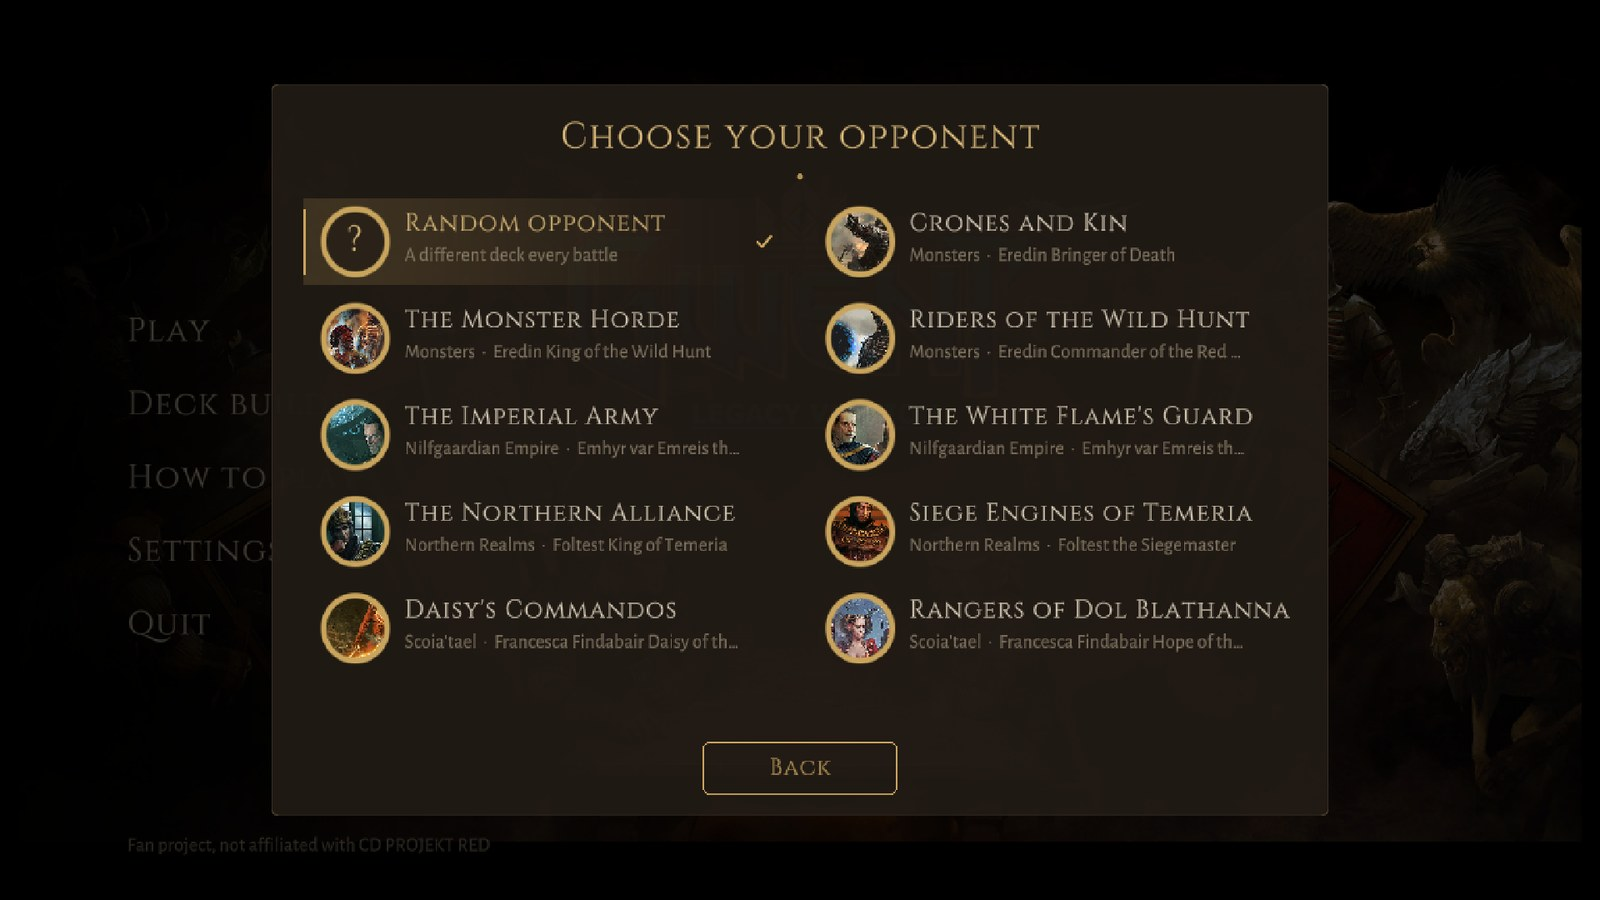
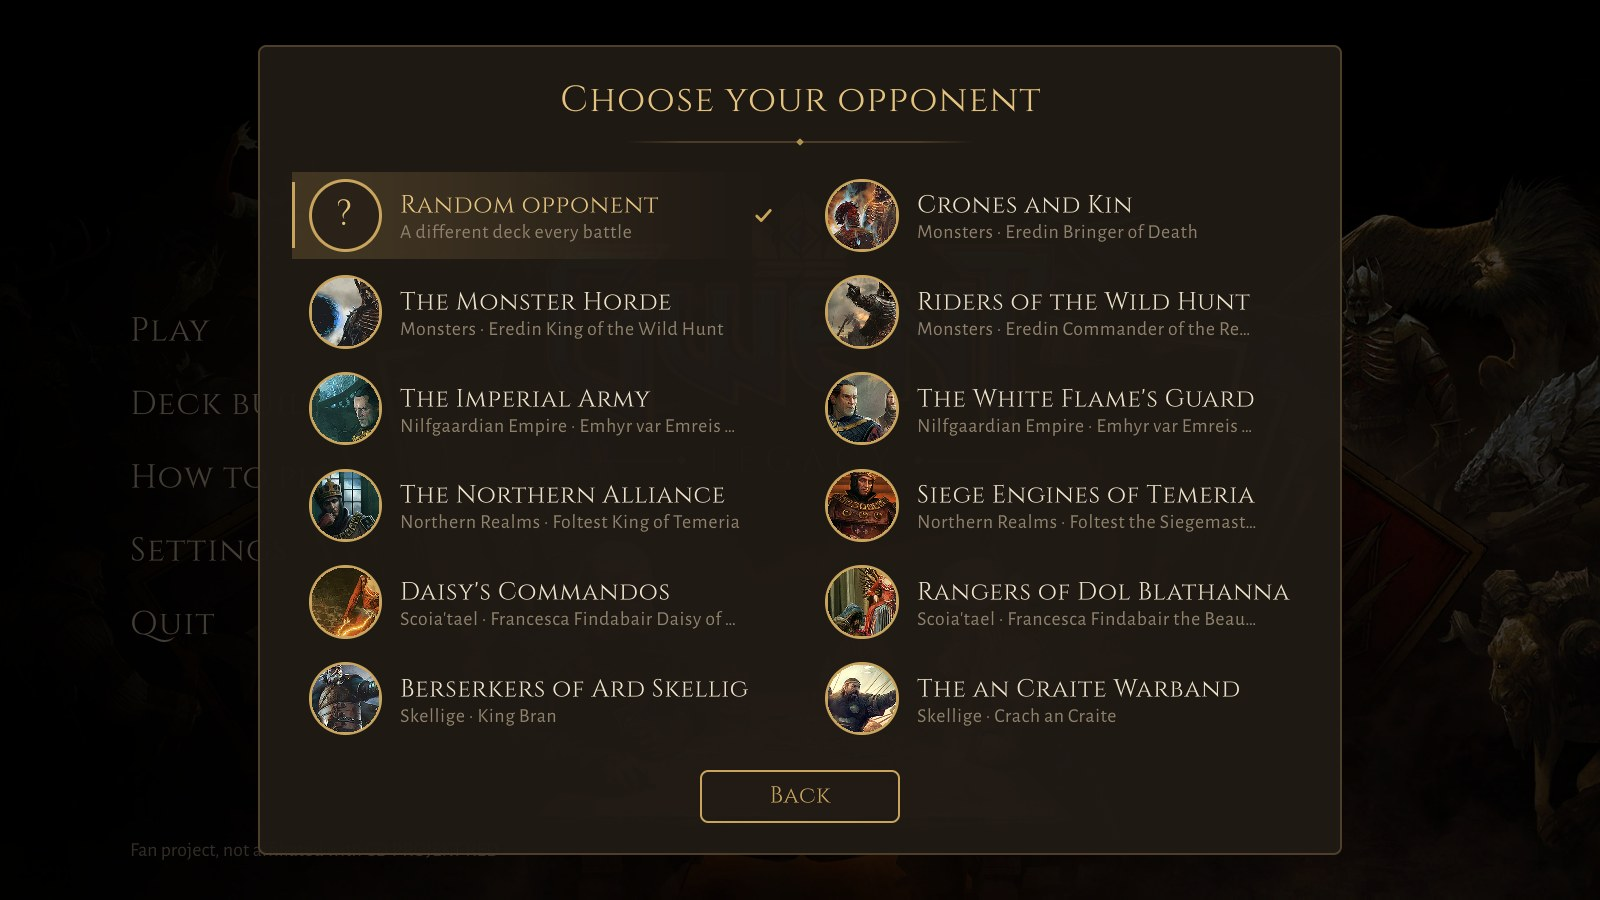
README: the opponent picker and the deck builder retaken with Skellige
The picker now shows all 11 decks across the five factions, and the deck builder its live faction banner with five
dots; the picker's description says so.

diff --git a/README.md b/README.md
@@ -44,7 +44,7 @@ Sorry, no multiplayer :/ (yet)
 <h3 align="center">Choosing an opponent, building a deck</h3>
 
 <p align="center">
-  <img src="Screenshots/opponents.jpg" width="49%" alt="The opponent picker: nine decks across the four factions">
+  <img src="Screenshots/opponents.jpg" width="49%" alt="The opponent picker: 11 decks across the five factions">
   <img src="Screenshots/deck-builder.jpg" width="49%" alt="The deck builder on a Northern Realms preset">
 </p>
 
